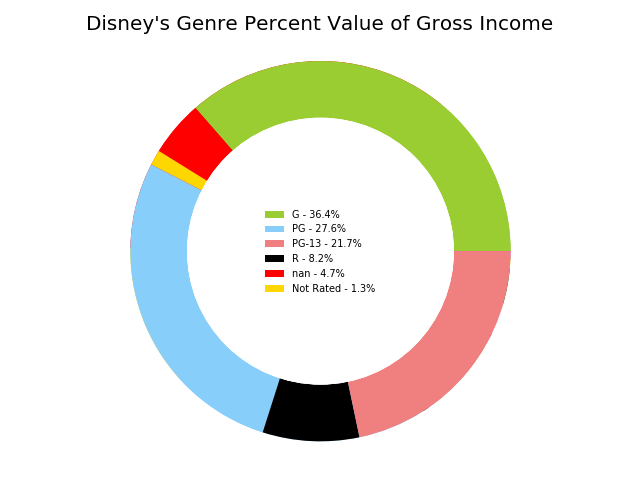
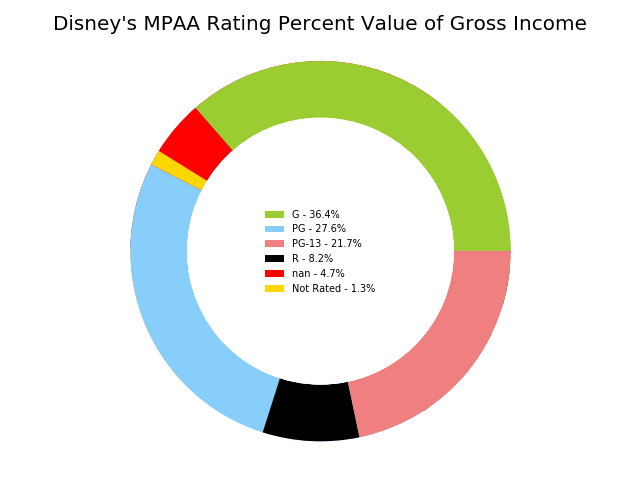
fixed title of plots

Changed region(s): [[0.0625, 0.0312, 0.9375, 0.0625]]

diff --git a/disney_movies_gross.py b/disney_movies_gross.py
@@ -107,7 +107,7 @@ class Disney_Movies_Gross:
         wedges, labels = self.sort_labels(wedges, labels, values)
         plt.legend(wedges, labels, loc='center', frameon=False, fontsize=7)
 
-        plt.title('Disney\'s Genre Percent Value of Gross Income')
+        plt.title(title)
         plt.axis('equal')
         plt.tight_layout()
 
